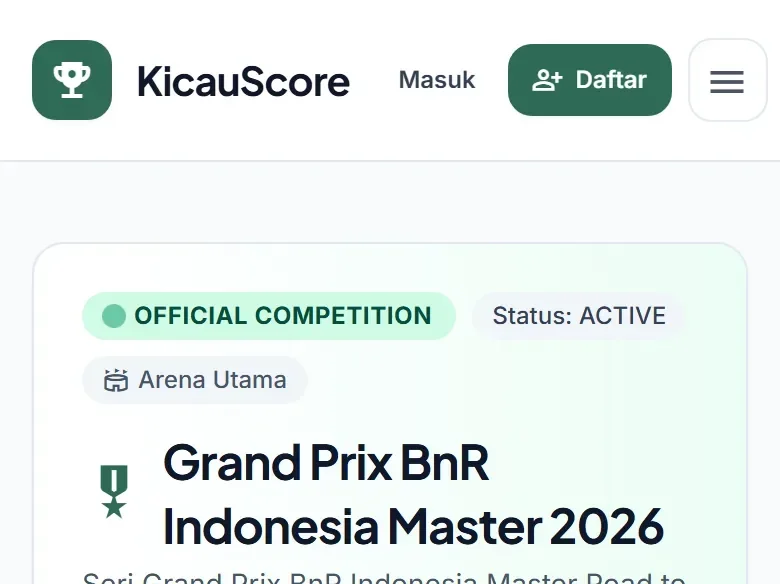
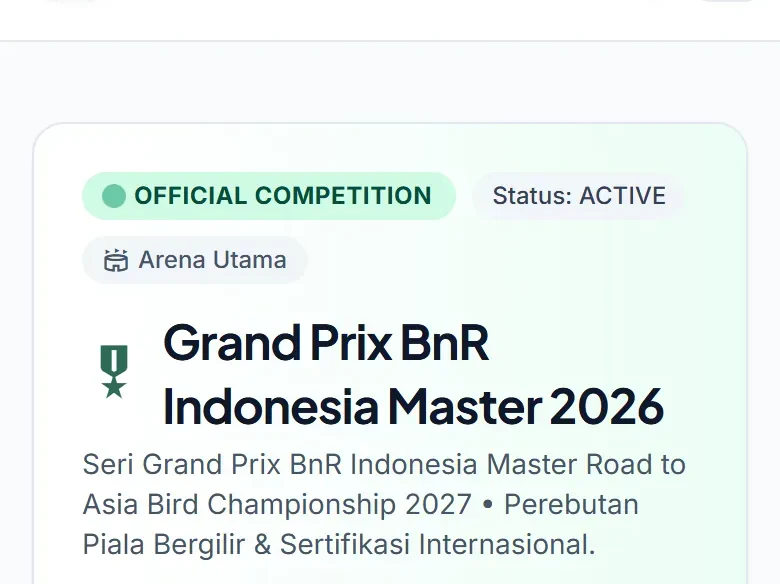
kicauscore: widen home-card, adjust standings-wide crop
home-card.webp: replaced with full-width 1720x1883 screenshot so the
contest page content (venue, date, bird classes) is not side-cropped
in the portfolio field frame.

standings-wide.webp: shifted crop down by 120px so the hero slide
opens on the OFFICIAL COMPETITION badge, hiding the navbar login and
register buttons above it.

diff --git a/src/content/pictures.ts b/src/content/pictures.ts
@@ -117,8 +117,8 @@ export const PICTURES = {
     },
     home: {
       src: "/work/kicauscore/home-card.webp",
-      width: 800,
-      height: 1190,
+      width: 1720,
+      height: 1883,
       alt: "KicauScore contest page: the event with its venue, date and hours, the bird classes and the category rundown",
     },
     homeCluster: {
